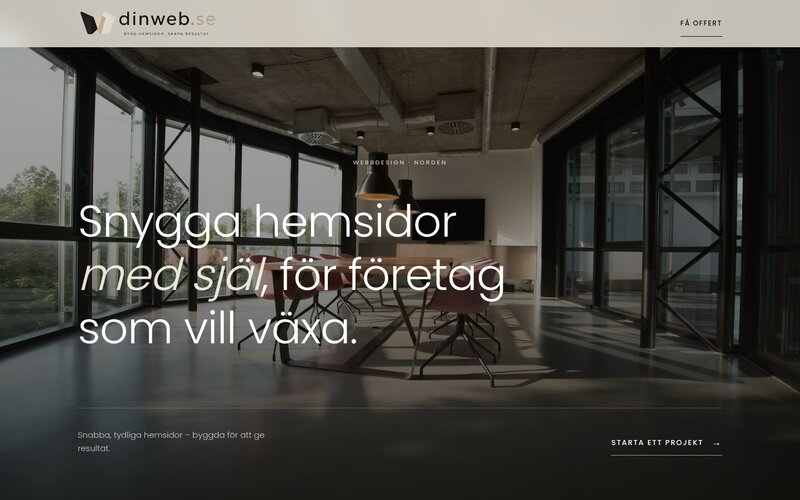
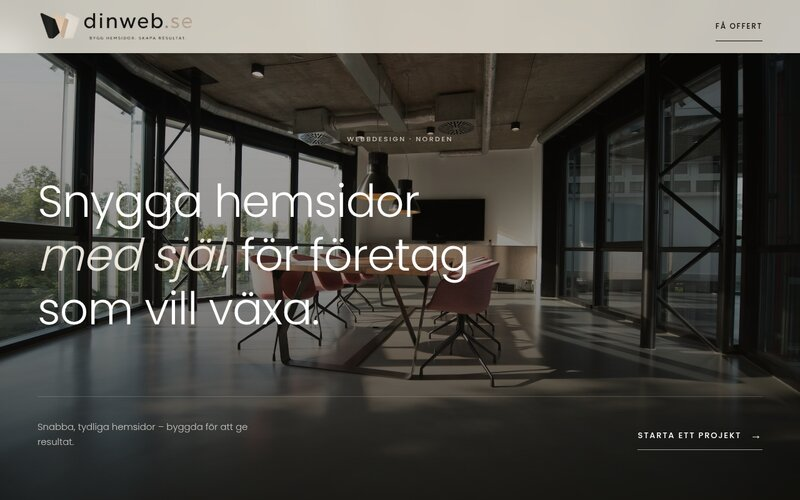
Fix venture screenshots and add OG sharing preview image
- Retake dinweb screenshot (fix cut-off "Snygga" text)
- Retake Miss Bubble screenshot (remove cookie banner)
- Add Open Graph meta tags for link sharing preview

diff --git a/index.html b/index.html
@@ -5,6 +5,14 @@
     <meta name="viewport" content="width=device-width, initial-scale=1.0">
     <title>Miss Bubble — Stockholm</title>
     <meta name="description" content="Miss Bubble AB is a Stockholm-based group operating across lifestyle fashion and digital services.">
+    <meta property="og:title" content="Miss Bubble — Stockholm">
+    <meta property="og:description" content="Miss Bubble AB is a Stockholm-based group operating across lifestyle fashion and digital services.">
+    <meta property="og:image" content="https://missbubble.eu/og-image.jpg">
+    <meta property="og:url" content="https://missbubble.eu">
+    <meta property="og:type" content="website">
+    <meta name="twitter:card" content="summary_large_image">
+    <meta name="twitter:title" content="Miss Bubble — Stockholm">
+    <meta name="twitter:image" content="https://missbubble.eu/og-image.jpg">
     <link rel="preconnect" href="https://fonts.googleapis.com">
     <link rel="preconnect" href="https://fonts.gstatic.com" crossorigin>
     <link href="https://fonts.googleapis.com/css2?family=Cormorant+Garamond:ital,wght@0,300;0,400;0,500;1,300;1,400&family=Inter:wght@300;400&display=swap" rel="stylesheet">
